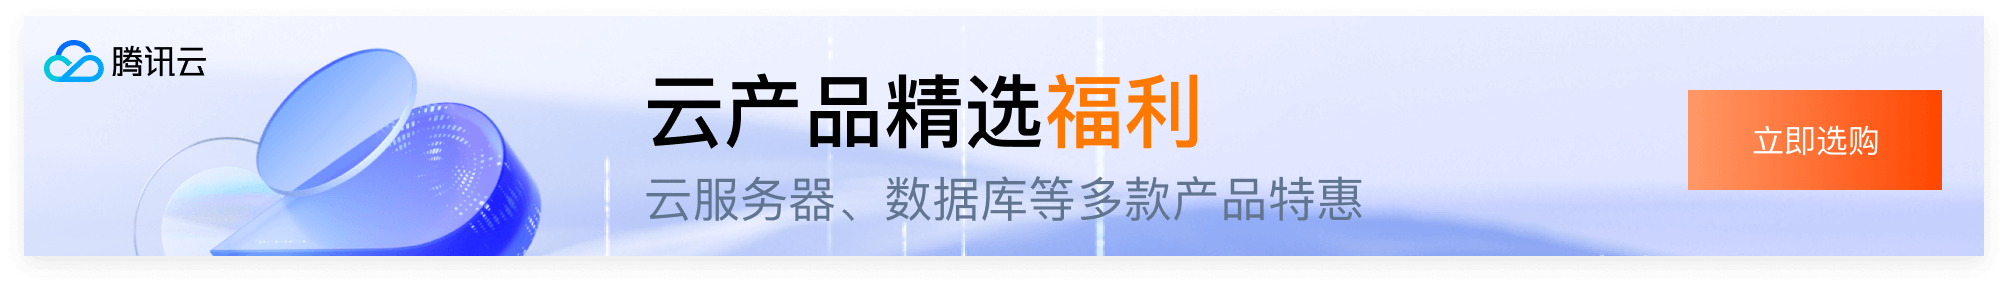
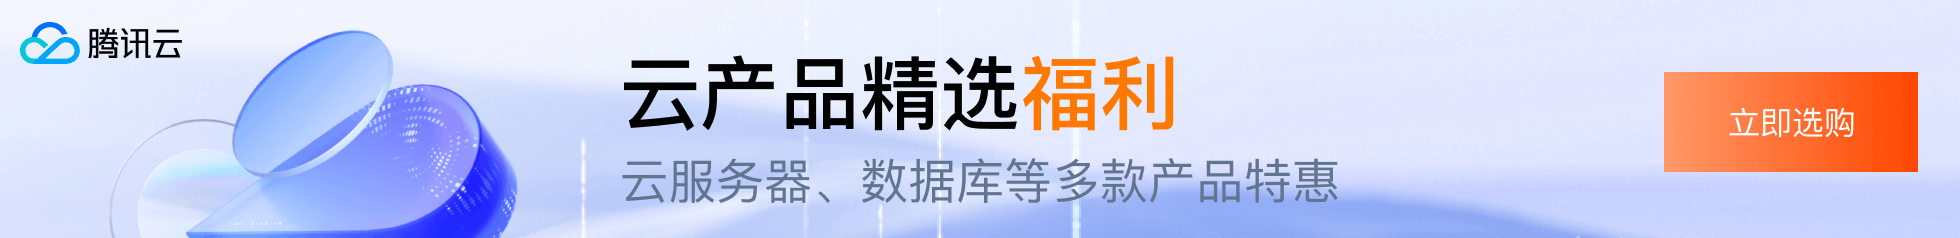
updated 样式调整

Changed region(s): [[0.0, 0.0, 1.0, 1.0], [0.3112, 0.2353, 0.6224, 0.5588]]

diff --git a/public/script/projects.js b/public/script/projects.js
@@ -68,15 +68,14 @@
             </div>
         </div>
 		<style type="text/css">
-			.mod-projects{max-width:960px;margin:0 auto 20px;padding: 30px 0 45px;text-align:center;font-size:14px;}
+			.mod-projects{max-width:960px;margin:0 auto 20px;padding: 30px 0;text-align:center;font-size:14px;}
 			.mod-projects a{text-decoration:none;color:#6e7781;}
 			.mod-projects .hd{line-height:40px;font-size:18px;font-weight:bold;}
 			.mod-projects ul{overflow:hidden;list-style: none;margin:0;padding:0;}
 			.mod-projects li{float:left;width:25%;}
 			.mod-projects li a{display:block;margin: 0 1px 2px;line-height:36px;background: rgba(0,0,0,0.03);color:#6e7781;}
 			.mod-projects li a:hover{background: #e9f4ff}
-            .mod-spread{max-width:960px;margin:0 auto 20px;}
-            .mod-spread .bd{text-align:center;}
+            .mod-spread{max-width:960px;margin:0 auto 20px;padding: 30px 0;text-align:center;}
             .mod-spread .bd img{max-width:100%;height: auto;}
 			@media screen and (max-width: 800px){
 				.mod-projects li{width:50%;}
